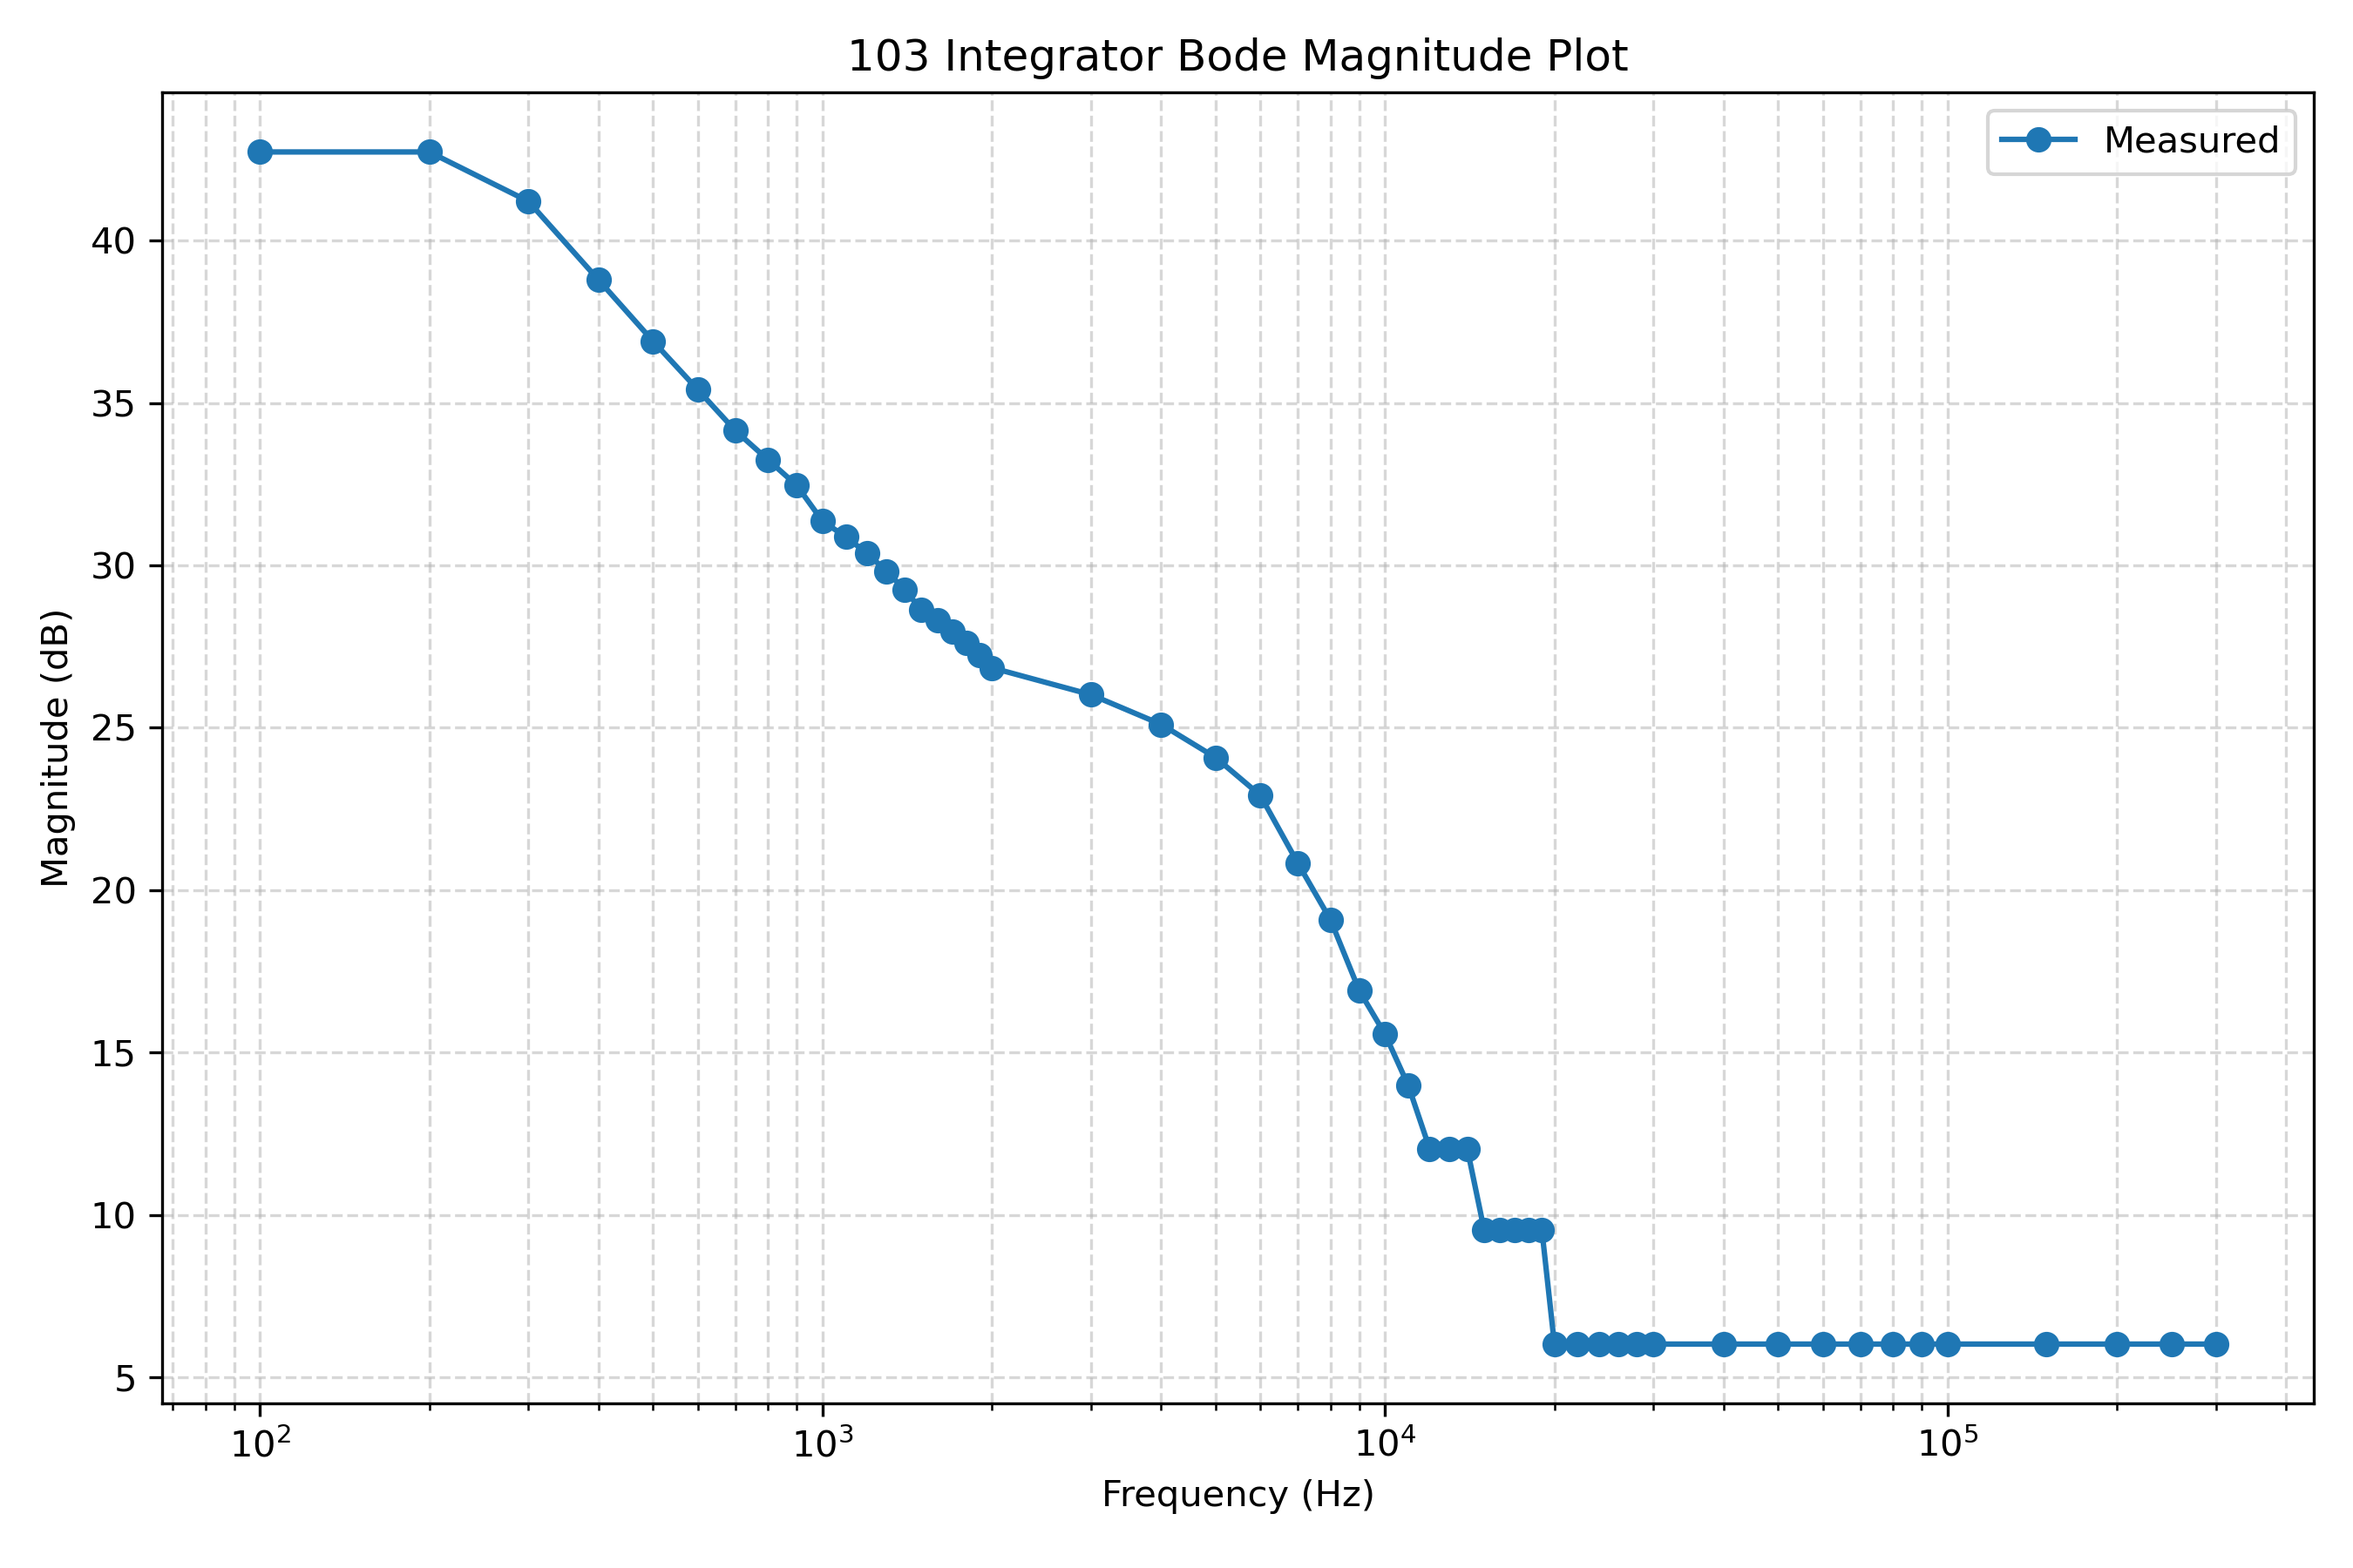
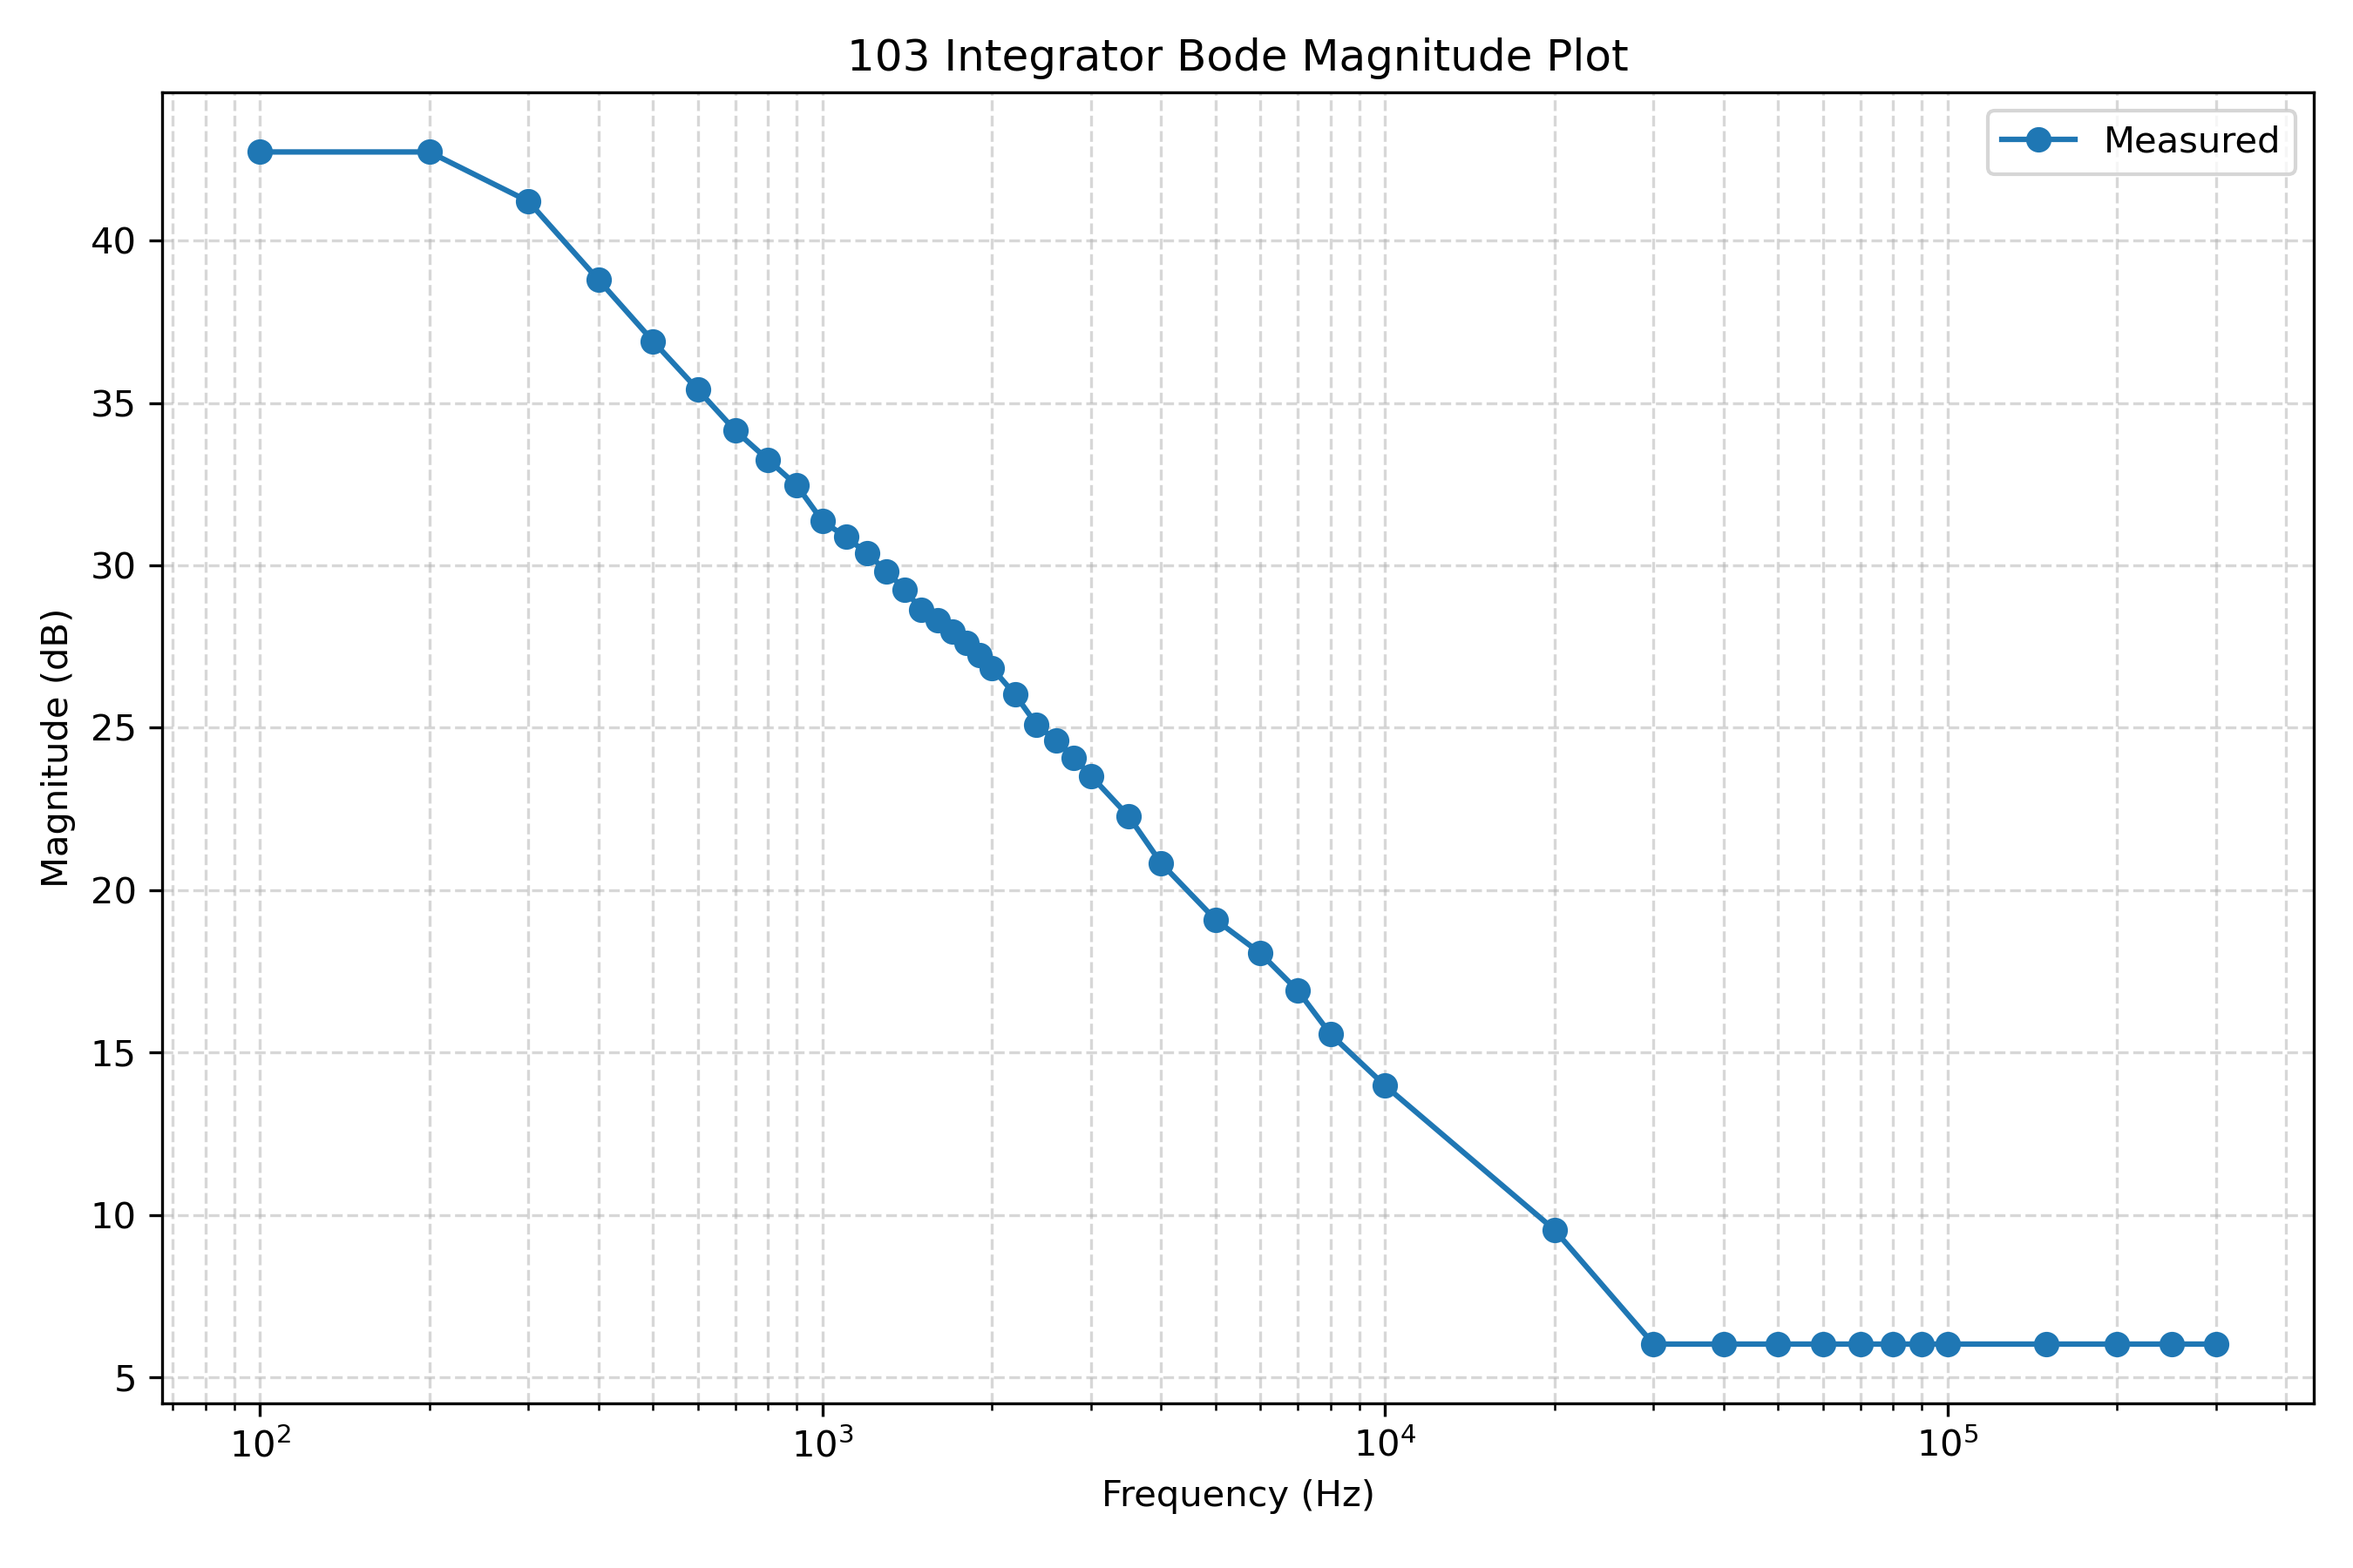
2026-10-20T13:55:49+00:00

diff --git a/2/post-lab/bode_plot.py b/2/post-lab/bode_plot.py
@@ -22,9 +22,11 @@ vin_pp = 0.2
 freq1 = np.concatenate(
     [
         np.arange(100, 2000, 100),
-        np.arange(2000, 20000, 1000),
-        np.arange(20000, 30000, 2000),
-        np.arange(30000, 100000, 10000),
+        np.arange(2000, 3000, 200),
+        np.arange(3000, 4000, 500),
+        np.arange(4000, 8000, 1000),
+        np.arange(8000, 10000, 2000),
+        np.arange(10000, 100000, 10000),
         np.arange(100000, 350000, 50000),
     ]
 )
@@ -53,26 +55,17 @@ vout_pp1 = np.array(
         4.4,  # 2k
         4.0,  # 2.2k
         3.6,
+        3.4,
         3.2,
-        2.8,
-        2.2,  # 3k
-        1.8,  # 4k
+        3.0,  # 3k
+        2.6,  # 3.5k
+        2.2,  # 4k
+        1.8,
+        1.6,
         1.4,
-        1.2,
-        1,
-        0.8,
-        0.8,
-        0.8,  # 10k
-        0.6,
-        0.6,
-        0.6,
-        0.6,
-        0.6,  # 15k
-        0.4,
-        0.4,
-        0.4,
-        0.4,
-        0.4,  # 20k
+        1.2,  # 8k
+        1,  # 10k
+        0.6,  # 20k
         0.4,
         0.4,
         0.4,
@@ -93,8 +86,8 @@ freq2 = np.concatenate(
         np.arange(2000, 4000, 100),
         np.arange(4000, 10000, 500),
         np.arange(10000, 20000, 1000),
-        np.arange(20000, 50000, 5000),
-        np.arange(50000, 100000, 10000),
+        np.arange(20000, 40000, 5000),
+        np.arange(40000, 100000, 10000),
         np.arange(100000, 1100000, 100000),
     ]
 )
@@ -105,9 +98,9 @@ vout_pp2 = np.array(
         23.8,  # 2.1k
         22.8,
         21.8,
-        22.8,
-        20.0,
-        19.4,
+        20.8,
+        19.8,
+        19.2,
         18.6,
         18.0,
         17.4,
@@ -146,11 +139,10 @@ vout_pp2 = np.array(
         2.0,  # 20k
         1.6,  # 25k
         1.2,
-        0.8,
-        0.6,
+        1.0,
+        0.8,  # 40k
+        0.6,  # 50k
         0.4,
-        0.4,  # 50k
-        0.4,  # 60k
         0.4,
         0.4,
         0.4,
